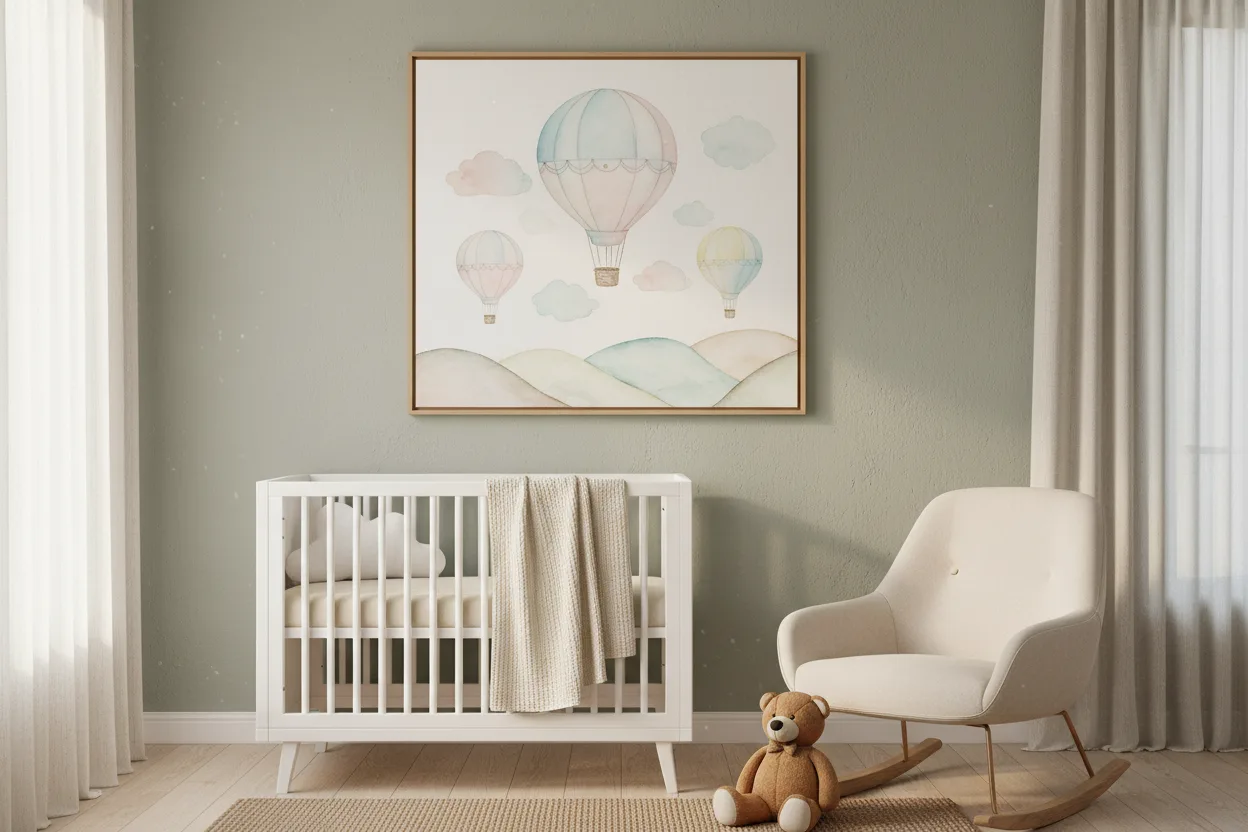
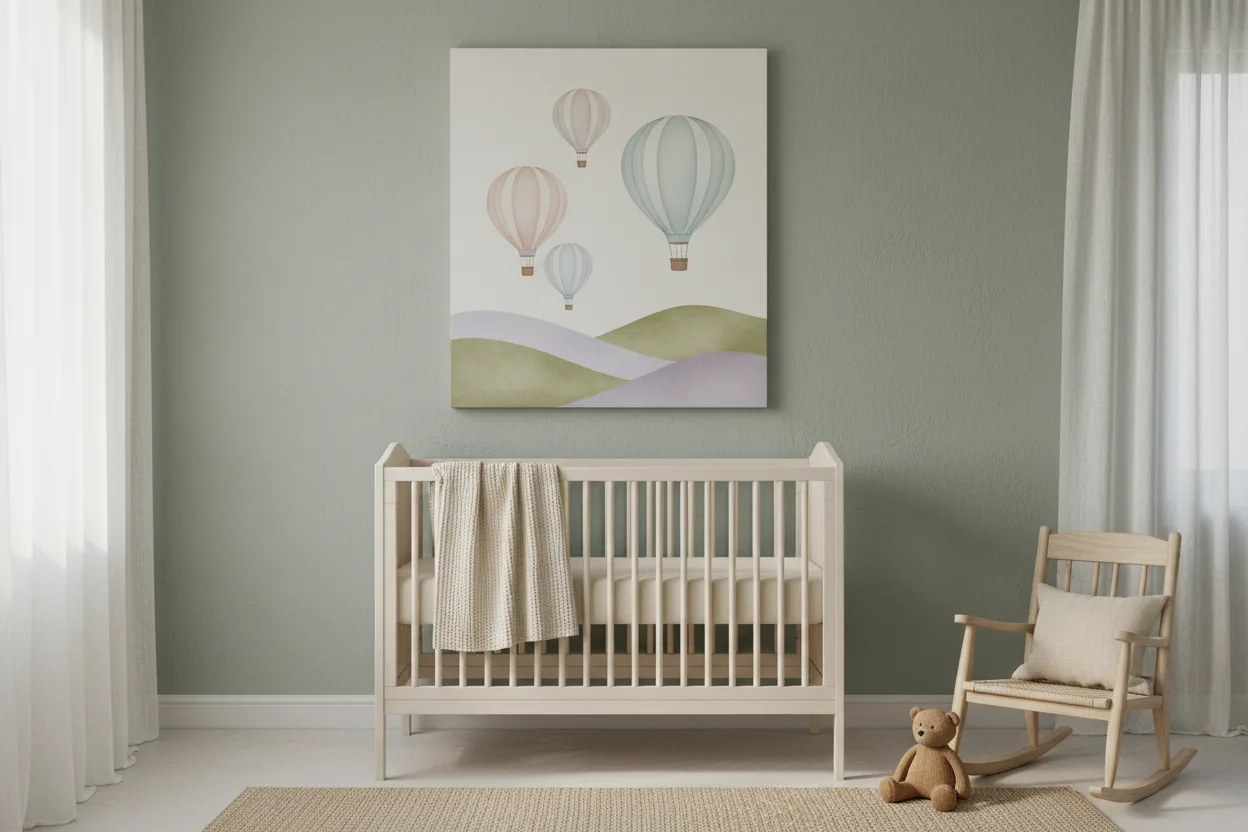
Hero refresh + shipping promise + remove framed/triptych mockups
Shipping promise:
- Customer-facing ETA changed from "7–14 business days" to "5–10 business days"
  across hero, trust pills, meta descriptions, OG tags, FAQ, policies,
  success page, about, and order-tracker. Internal docs left as historical
  records; will be updated separately.

Hero gallery (4 tiles, was 4+showcase row):
- Drop the wide showcase row I added last commit — the user wants 4 tiles,
  not 6, and only 1:1 / 2:3 aspect ratios (the formats we actually print).
- Replace the two cosmic-leaning tiles with photorealistic landscapes:
  - "Aurora over the fjord" → "Misty mountain valley" (photoreal, Metal)
  - "Cosmic cliff" → "Coastal cliffs, Atlantic" (photoreal, Acrylic)
- Keep Neon Tokyo + Anime blossoms for stylistic range.

See it in a room (10 mockups, was 11):
- Remove the metal-triptych tile — we sell single prints, not triptychs.
- Re-roll the nursery mockup with explicit "gallery-wrapped canvas, NO frame"
  language so the artwork reads as our actual product (frameless canvas)
  rather than a framed print.

Adds scripts/generate-hero-refresh.js for re-running the batch.

diff --git a/scripts/generate-hero-refresh.js b/scripts/generate-hero-refresh.js
@@ -1,0 +1,124 @@
+// scripts/generate-hero-refresh.js
+// Replace the two cosmic-leaning hero tiles (Aurora + Cosmic Cliff) with
+// photorealistic landscape photography, and re-roll the nursery room mockup
+// without a picture frame around the canvas. Sticks to 1:1 for the hero
+// tiles to match the existing 2x2 hero grid; 3:2 for the room mockup.
+//
+// All prompts explicitly forbid frames around the artwork (we sell
+// gallery-wrapped canvas, metal float-mount, and acrylic facemount — never
+// framed prints) and forbid text/logos/watermarks/badges.
+//
+// Run: node scripts/generate-hero-refresh.js
+
+import fs from 'node:fs';
+import path from 'node:path';
+import sharp from 'sharp';
+
+const ROOT = process.cwd();
+const ENV_FILE = path.join(ROOT, '.env.local');
+const MAX_DIM = 1600;
+const QUALITY = 82;
+
+function loadApiKey() {
+  if (!fs.existsSync(ENV_FILE)) throw new Error(`No .env.local at ${ENV_FILE}`);
+  const raw = fs.readFileSync(ENV_FILE, 'utf8');
+  for (const line of raw.split(/\r?\n/)) {
+    const m = line.match(/^\s*GOOGLE_GEMINI_API_KEY\s*=\s*(.*?)\s*$/);
+    if (m) {
+      let v = m[1];
+      if ((v.startsWith('"') && v.endsWith('"')) || (v.startsWith("'") && v.endsWith("'"))) v = v.slice(1, -1);
+      if (v && v !== '[YOUR_GOOGLE_API_KEY_HERE]') return v;
+    }
+  }
+  throw new Error('GOOGLE_GEMINI_API_KEY not present in .env.local');
+}
+
+const SPECS = [
+  {
+    out: 'public/ai-art/art-mountain-mist.webp',
+    aspect: '1:1',
+    alt: 'Misty mountain valley at sunrise with low-lying fog between pine-covered ridges',
+    prompt: 'Photorealistic fine-art landscape photograph, square 1:1 composition: a misty mountain valley at sunrise, low-lying soft fog drifting between layered pine-covered ridges, warm orange and pink sunrise light spilling over distant snow-capped peaks, deeply atmospheric, sharp foreground pines, atmospheric depth into the distance, gallery-quality nature photography (Pacific Northwest / Patagonia aesthetic). Realistic photographic look — not painterly, not illustrated. No text, no logos, no watermarks, no signs, no people, no frames or borders around the image, no UI elements.'
+  },
+  {
+    out: 'public/ai-art/art-coastal-cliffs.webp',
+    aspect: '1:1',
+    alt: 'Dramatic North Atlantic basalt sea cliffs with crashing surf and moody overcast light',
+    prompt: 'Photorealistic fine-art landscape photograph, square 1:1 composition: dramatic North Atlantic basalt sea cliffs with thunderous surf crashing against the dark rocks, low moody overcast light, deep teal and slate-grey ocean, faint mist rising from the impact, atmospheric and powerful, gallery-quality fine-art seascape photography (Iceland or Faroe Islands aesthetic). Realistic photographic look with crisp detail in the spray and stone. No text, no logos, no watermarks, no signs, no people, no boats, no frames or borders around the image, no UI elements.'
+  },
+  {
+    out: 'public/gallery/07-nursery-whimsy.webp',
+    aspect: '3:2',
+    alt: 'Frameless gallery-wrapped canvas of hot-air balloons hanging above a white crib in a sage nursery',
+    prompt: 'Photorealistic editorial interior photograph: a modern nursery with a single whimsical pastel gallery-wrapped CANVAS print of hot-air balloons drifting over rolling hills hanging on a soft sage-green plaster wall above a clean white wooden crib with a folded gauze blanket. CRITICAL: the canvas is gallery-wrapped (printed edge-to-edge with a 1.5-inch deep side edge visible) and has NO PICTURE FRAME, NO BORDER, NO MATTING around it — the painted image goes right to the canvas edge. A small cream rocking chair, a plush stuffed bear on the floor, soft morning sunlight filtering through sheer linen curtains. Calm, warm, peaceful, premium interior photography style. The unframed gallery-wrapped canvas is the focal hero. No text, no logos, no watermarks, no signs, no people, and absolutely no frame, no thin black border, no white matting, no glass — just a clean gallery-wrapped canvas.'
+  }
+];
+
+async function generateOne(spec, apiKey) {
+  const t0 = Date.now();
+  const resp = await fetch(
+    'https://generativelanguage.googleapis.com/v1beta/models/gemini-2.5-flash-image:generateContent',
+    {
+      method: 'POST',
+      headers: { 'Content-Type': 'application/json', 'x-goog-api-key': apiKey },
+      body: JSON.stringify({
+        contents: [{ parts: [{ text: spec.prompt }] }],
+        generationConfig: {
+          responseModalities: ['TEXT', 'IMAGE'],
+          imageConfig: { aspectRatio: spec.aspect }
+        }
+      })
+    }
+  );
+  const text = await resp.text();
+  if (!resp.ok) {
+    let msg = `HTTP ${resp.status}`;
+    try { msg = JSON.parse(text)?.error?.message || msg; } catch (_) {}
+    throw new Error(msg);
+  }
+  let data;
+  try { data = JSON.parse(text); } catch { throw new Error('Bad JSON from Gemini'); }
+  const parts = data?.candidates?.[0]?.content?.parts;
+  if (!parts?.length) throw new Error('No parts in Gemini response');
+  const imagePart = parts.find(p => p.inlineData?.mimeType?.startsWith('image/'));
+  if (!imagePart?.inlineData?.data) throw new Error('No image data in response');
+
+  const png = Buffer.from(imagePart.inlineData.data, 'base64');
+  const outPath = path.join(ROOT, spec.out);
+  const outDir = path.dirname(outPath);
+  if (!fs.existsSync(outDir)) fs.mkdirSync(outDir, { recursive: true });
+  if (fs.existsSync(outPath)) {
+    const backup = outPath + '.backup-' + Date.now();
+    fs.copyFileSync(outPath, backup);
+  }
+  await sharp(png)
+    .resize({ width: MAX_DIM, height: MAX_DIM, fit: 'inside', withoutEnlargement: true })
+    .webp({ quality: QUALITY })
+    .toFile(outPath);
+  const bytes = fs.statSync(outPath).size;
+  return { name: spec.out, alt: spec.alt, bytes, ms: Date.now() - t0 };
+}
+
+async function main() {
+  const apiKey = loadApiKey();
+  console.log(`Generating ${SPECS.length} replacement images via Gemini 2.5 Flash Image…\n`);
+  const results = [];
+  for (const spec of SPECS) {
+    const label = spec.out.replace(/^public\//, '').padEnd(40);
+    process.stdout.write(`  ${label} (${spec.aspect}) … `);
+    try {
+      const r = await generateOne(spec, apiKey);
+      results.push(r);
+      console.log(`OK  ${(r.bytes / 1024).toFixed(0)} KB · ${(r.ms / 1000).toFixed(1)}s`);
+    } catch (e) {
+      console.log(`FAIL  ${e.message}`);
+    }
+  }
+  console.log(`\nDone. Wrote ${results.length}/${SPECS.length} files.`);
+  if (results.length < SPECS.length) {
+    console.log('Some images failed — re-run to retry.');
+    process.exitCode = 1;
+  }
+}
+
+main().catch(e => { console.error(e.message); process.exit(1); });

diff --git a/public/index.html b/public/index.html
@@ -4,7 +4,7 @@
   <meta charset="utf-8" />
   <meta name="viewport" content="width=device-width, initial-scale=1" />
   <title>aiPRINT.ai — Turn any idea into a gallery-worthy print</title>
-  <meta name="description" content="Create premium, ready-to-hang fine art prints from your idea. AI + human curation, archival materials, hand-numbered Certificate of Authenticity. Custom-made and shipped in 7–14 business days." />
+  <meta name="description" content="Create premium, ready-to-hang fine art prints from your idea. AI + human curation, archival materials, hand-numbered Certificate of Authenticity. Custom-made and shipped in 5–10 business days." />
   <link rel="canonical" href="https://aiprint.ai/" />
   <meta name="theme-color" content="#0a0f1d" />
   <meta name="facebook-domain-verification" content="ya27rg1ncbguhc37iwo2heprvfce2n" />
@@ -17,7 +17,7 @@
   <meta property="og:type" content="website" />
   <meta property="og:site_name" content="aiPRINT.ai" />
   <meta property="og:title" content="aiPRINT.ai — Turn any idea into a gallery-worthy print" />
-  <meta property="og:description" content="Premium AI-generated fine art prints. Archival materials, hand-numbered Certificate of Authenticity, founder-reviewed before production. Custom-made and shipped in 7–14 business days." />
+  <meta property="og:description" content="Premium AI-generated fine art prints. Archival materials, hand-numbered Certificate of Authenticity, founder-reviewed before production. Custom-made and shipped in 5–10 business days." />
   <meta property="og:url" content="https://aiprint.ai/" />
   <meta property="og:image" content="https://aiprint.ai/og-image.png" />
   <meta property="og:image:width" content="1200" />
@@ -26,7 +26,7 @@
   <!-- Twitter -->
   <meta name="twitter:card" content="summary_large_image" />
   <meta name="twitter:title" content="aiPRINT.ai — Turn any idea into a gallery-worthy print" />
-  <meta name="twitter:description" content="Premium AI-generated fine art prints. Archival materials, hand-numbered COA. Custom-made and shipped in 7–14 business days." />
+  <meta name="twitter:description" content="Premium AI-generated fine art prints. Archival materials, hand-numbered COA. Custom-made and shipped in 5–10 business days." />
   <meta name="twitter:image" content="https://aiprint.ai/og-image.png" />
 
   <!-- JSON-LD -->
@@ -686,7 +686,7 @@
       <h1 class="h1">Turn any <span class="gradient-text">idea, memory, or moment</span> into a gallery-worthy print.</h1>
       <p class="muted mt-5 max-w-lg text-lg leading-relaxed hidden md:block">Type a prompt — or upload a photo. Our <span class="text-white font-semibold">AI generates your artwork in seconds</span> (with a human artist's eye on every order), then we print it on museum-grade canvas, metal, or acrylic and ship it to your door — ready to hang.</p>
       <p class="mt-5 max-w-lg text-lg leading-snug font-semibold text-white md:hidden">Prompt or Photo → AI generates → Human reviews → Shipped <span class="text-indigo-300">· Canvas, Metal, Acrylic</span></p>
-      <p class="mt-3 max-w-lg text-base text-gray-300"><span class="font-semibold text-white">From $45.</span> Ships in 7–14 business days. Numbered Certificate of Authenticity. Optional artist signature.</p>
+      <p class="mt-3 max-w-lg text-base text-gray-300"><span class="font-semibold text-white">From $45.</span> Ships in 5–10 business days. Numbered Certificate of Authenticity. Optional artist signature.</p>
       <div class="flex gap-3 mt-8 items-center">
         <a href="#create" class="btn-accent text-base">Create a preview →</a>
         <a href="#gallery" class="btn-ghost text-base">See examples</a>
@@ -696,7 +696,7 @@
         <a href="/faq.html#materials" class="inline-flex items-center gap-1.5 px-3 py-1.5 rounded-full bg-white/5 border border-white/10 text-xs font-medium text-gray-300 hover:bg-white/10 transition-colors"><span class="text-green-400">✓</span> Made in the USA</a>
         <a href="/faq.html#materials" class="inline-flex items-center gap-1.5 px-3 py-1.5 rounded-full bg-white/5 border border-white/10 text-xs font-medium text-gray-300 hover:bg-white/10 transition-colors"><span class="text-green-400">✓</span> Archival materials</a>
         <a href="/faq.html#authenticity" class="inline-flex items-center gap-1.5 px-3 py-1.5 rounded-full bg-white/5 border border-white/10 text-xs font-medium text-gray-300 hover:bg-white/10 transition-colors"><span class="text-green-400">✓</span> Certificate of Authenticity</a>
-        <a href="/faq.html#shipping" class="inline-flex items-center gap-1.5 px-3 py-1.5 rounded-full bg-white/5 border border-white/10 text-xs font-medium text-gray-300 hover:bg-white/10 transition-colors"><span class="text-green-400">✓</span> Ships in 7–14 business days</a>
+        <a href="/faq.html#shipping" class="inline-flex items-center gap-1.5 px-3 py-1.5 rounded-full bg-white/5 border border-white/10 text-xs font-medium text-gray-300 hover:bg-white/10 transition-colors"><span class="text-green-400">✓</span> Ships in 5–10 business days</a>
       </div>
     </div>
     <div class="grid grid-cols-2 gap-4">
@@ -707,39 +707,21 @@
         </div>
       </div>
       <div class="aspect-square rounded-2xl overflow-hidden relative">
-        <img src="/ai-art/art-aurora.webp" class="w-full h-full object-cover" alt="Aurora borealis over a fjord">
+        <img src="/ai-art/art-mountain-mist.webp" class="w-full h-full object-cover" alt="Misty mountain valley at sunrise, low fog drifting between pine ridges">
         <div class="absolute bottom-2 left-2 right-2">
-          <div class="glass rounded px-2 py-1 text-xs">"Aurora over the fjord" — Metal</div>
+          <div class="glass rounded px-2 py-1 text-xs">"Misty mountain valley" — Metal</div>
         </div>
       </div>
       <div class="aspect-square rounded-2xl overflow-hidden relative">
-        <img src="/ai-art/art-cosmic-cliff.webp" class="w-full h-full object-cover" alt="Cosmic cliff nebula at the edge of space">
+        <img src="/ai-art/art-coastal-cliffs.webp" class="w-full h-full object-cover" alt="North Atlantic basalt sea cliffs with crashing surf">
         <div class="absolute bottom-2 left-2 right-2">
-          <div class="glass rounded px-2 py-1 text-xs">"Cosmic cliff" — Acrylic</div>
+          <div class="glass rounded px-2 py-1 text-xs">"Coastal cliffs, Atlantic" — Acrylic</div>
         </div>
       </div>
       <div class="aspect-square rounded-2xl overflow-hidden relative">
         <img src="/ai-art/art-anime-blossoms.webp" class="w-full h-full object-cover" alt="Anime-style cherry blossoms in full bloom">
         <div class="absolute bottom-2 left-2 right-2">
           <div class="glass rounded px-2 py-1 text-xs">"Anime blossoms" — Canvas</div>
-        </div>
-      </div>
-    </div>
-
-    <!-- Hero showcase row: a wider horizontal + a taller vertical so the gallery
-         hints at the aspect-ratio range we actually print at. Heights are
-         intentionally different — that mismatch IS the visual variety. -->
-    <div class="grid grid-cols-1 sm:grid-cols-[3fr_2fr] gap-4 mt-4 items-start col-span-2 hidden lg:grid">
-      <div class="aspect-[3/2] rounded-2xl overflow-hidden relative">
-        <img src="/ai-art/hero/showcase-horizontal.webp" class="w-full h-full object-cover" alt="Sweeping desert canyon at golden hour, layered atmospheric haze">
-        <div class="absolute bottom-2 left-2 right-2">
-          <div class="glass rounded px-2 py-1 text-xs">"Desert canyon, golden hour" — Metal panorama</div>
-        </div>
-      </div>
-      <div class="aspect-[2/3] rounded-2xl overflow-hidden relative">
-        <img src="/ai-art/hero/showcase-vertical.webp" class="w-full h-full object-cover" alt="Ancient redwood rising into a misty morning forest">
-        <div class="absolute bottom-2 left-2 right-2">
-          <div class="glass rounded px-2 py-1 text-xs">"Redwood, morning mist" — Canvas vertical</div>
         </div>
       </div>
     </div>
@@ -1297,7 +1279,7 @@
         </div>
 
         <p class="text-center text-xs text-gray-500 mt-4">Watermark is for preview only — your final print arrives clean, inspected, and with a numbered Certificate of Authenticity.</p>
-        <p class="text-center text-xs text-gray-400 mt-2"><span class="inline-flex items-center gap-1.5"><span class="inline-icon" aria-hidden="true"><svg viewBox="0 0 18 18" fill="none" stroke="currentColor" stroke-width="1.5" stroke-linecap="round" stroke-linejoin="round"><path d="M9 2.5L15.5 5.5V12.5L9 15.5L2.5 12.5V5.5z"/><path d="M9 9V15.5M9 9L2.5 5.5M9 9L15.5 5.5"/></svg></span>Ships in 7–14 business days</span> · <span class="inline-flex items-center gap-1.5"><span class="inline-icon" aria-hidden="true"><svg viewBox="0 0 18 18" fill="none" stroke="currentColor" stroke-width="1.5" stroke-linecap="round" stroke-linejoin="round"><path d="M9 2L15 4V9C15 12.5 12.5 14.5 9 16C5.5 14.5 3 12.5 3 9V4z"/><path d="M6.5 9L8 10.5L11.5 7"/></svg></span>30-day satisfaction guarantee</span> · <span class="inline-flex items-center gap-1.5"><span class="inline-icon" aria-hidden="true"><svg viewBox="0 0 18 18" fill="none" stroke="currentColor" stroke-width="1.5" stroke-linecap="round" stroke-linejoin="round"><circle cx="9" cy="7.5" r="4"/><path d="M6.5 11L5.5 15L9 13.5L12.5 15L11.5 11"/><path d="M7.5 7.5L8.5 8.5L10.5 6.5"/></svg></span>Certificate of Authenticity included</span></p>
+        <p class="text-center text-xs text-gray-400 mt-2"><span class="inline-flex items-center gap-1.5"><span class="inline-icon" aria-hidden="true"><svg viewBox="0 0 18 18" fill="none" stroke="currentColor" stroke-width="1.5" stroke-linecap="round" stroke-linejoin="round"><path d="M9 2.5L15.5 5.5V12.5L9 15.5L2.5 12.5V5.5z"/><path d="M9 9V15.5M9 9L2.5 5.5M9 9L15.5 5.5"/></svg></span>Ships in 5–10 business days</span> · <span class="inline-flex items-center gap-1.5"><span class="inline-icon" aria-hidden="true"><svg viewBox="0 0 18 18" fill="none" stroke="currentColor" stroke-width="1.5" stroke-linecap="round" stroke-linejoin="round"><path d="M9 2L15 4V9C15 12.5 12.5 14.5 9 16C5.5 14.5 3 12.5 3 9V4z"/><path d="M6.5 9L8 10.5L11.5 7"/></svg></span>30-day satisfaction guarantee</span> · <span class="inline-flex items-center gap-1.5"><span class="inline-icon" aria-hidden="true"><svg viewBox="0 0 18 18" fill="none" stroke="currentColor" stroke-width="1.5" stroke-linecap="round" stroke-linejoin="round"><circle cx="9" cy="7.5" r="4"/><path d="M6.5 11L5.5 15L9 13.5L12.5 15L11.5 11"/><path d="M7.5 7.5L8.5 8.5L10.5 6.5"/></svg></span>Certificate of Authenticity included</span></p>
 
         <!-- Room Mockup Section -->
         <div id="roomMockupSection" class="mt-8 hidden">
@@ -1665,14 +1647,6 @@
           <div class="text-xs text-blue-300 font-semibold mb-1">ACRYLIC · 30×20"</div>
           <div class="font-bold">"Abstract ocean, moody"</div>
           <div class="text-xs text-gray-400 mt-1">Dining feature wall</div>
-        </div>
-      </div>
-      <div class="gallery-item" style="height:250px;">
-        <img src="/gallery/10-office-triptych-metal.webp" alt="Triptych of three matching metal prints showing a cinematic mountain panorama above a clean home-office desk">
-        <div class="gallery-caption">
-          <div class="text-xs text-cyan-300 font-semibold mb-1">METAL · TRIPTYCH</div>
-          <div class="font-bold">"Mountain panorama, 3-up"</div>
-          <div class="text-xs text-gray-400 mt-1">Home office</div>
         </div>
       </div>
       <div class="gallery-item" style="height:250px;">

diff --git a/public/policies.html b/public/policies.html
@@ -125,7 +125,7 @@
     <!-- Quick Summary Cards -->
     <section class="grid md:grid-cols-3 gap-6 mb-12">
       <div class="glass rounded-xl p-6 text-center">
-        <div class="text-3xl font-bold mb-2">7–14 business days</div>
+        <div class="text-3xl font-bold mb-2">5–10 business days</div>
         <p class="muted">Production & shipping time</p>
       </div>
       <div class="glass rounded-xl p-6 text-center">
@@ -151,7 +151,7 @@
             <ul class="space-y-2 muted">
               <li class="flex gap-3"><span class="text-green-400">•</span><span><strong class="text-white">Production:</strong> 3–7 business days (varies by material — canvas is fastest, acrylic and large metal are longer)</span></li>
               <li class="flex gap-3"><span class="text-green-400">•</span><span><strong class="text-white">Shipping:</strong> 3–7 business days after production, with tracking</span></li>
-              <li class="flex gap-3"><span class="text-green-400">•</span><span><strong class="text-white">Total:</strong> 7–14 business days door to door</span></li>
+              <li class="flex gap-3"><span class="text-green-400">•</span><span><strong class="text-white">Total:</strong> 5–10 business days door to door</span></li>
             </ul>
             <p class="muted mt-3 text-sm">Larger sizes (24"+ on the long edge) and orders during holiday windows may add 2–4 business days.</p>
           </div>

diff --git a/public/about.html b/public/about.html
@@ -226,7 +226,7 @@
         <div class="step-num">4</div>
         <div>
           <h3 class="font-bold text-lg mb-1">We print, inspect, and ship</h3>
-          <p class="muted">Your piece is produced on archival materials at our Florida studio, inspected once it's off the printer, optionally embedded with your custom signature, bundled with a Certificate of Authenticity, and shipped ready to hang. 7–14 business days door to door.</p>
+          <p class="muted">Your piece is produced on archival materials at our Florida studio, inspected once it's off the printer, optionally embedded with your custom signature, bundled with a Certificate of Authenticity, and shipped ready to hang. 5–10 business days door to door.</p>
         </div>
       </div>
     </div>

diff --git a/public/faq.html b/public/faq.html
@@ -318,7 +318,7 @@
             </summary>
             <p class="muted mt-3">
               Production takes 3–7 business days depending on material, with shipping typically 3–7 days after that.
-              Most orders arrive within 7–14 business days total. We'll keep you updated with tracking every step of the way.
+              Most orders arrive within 5–10 business days total. We'll keep you updated with tracking every step of the way.
             </p>
           </details>
 

diff --git a/public/success.html b/public/success.html
@@ -11,7 +11,7 @@
   <link rel="apple-touch-icon" sizes="180x180" href="/apple-touch-icon.png" />
   <link rel="manifest" href="/site.webmanifest" />
   <meta property="og:title" content="Order Confirmed · aiPRINT.ai"/>
-  <meta property="og:description" content="Your custom AI art print is in production. Ships in 7–14 business days."/>
+  <meta property="og:description" content="Your custom AI art print is in production. Ships in 5–10 business days."/>
   <meta property="og:type" content="website"/>
   <script src="https://cdn.tailwindcss.com"></script>
   <link href="https://fonts.googleapis.com/css2?family=Playfair+Display:ital@0;1&display=swap" rel="stylesheet">

diff --git a/public/track.html b/public/track.html
@@ -169,7 +169,7 @@
         </div>
         <div class="space-y-2">${stepsHtml}</div>
         ${trackingHtml}
-        <p class="text-xs muted">Production usually takes 3–7 business days, with 3–7 more in transit. Expect 7–14 business days door to door.</p>
+        <p class="text-xs muted">Production usually takes 2–5 business days, with 3–5 more in transit. Expect 5–10 business days door to door.</p>
       `;
       show($('#resultState'));
     }